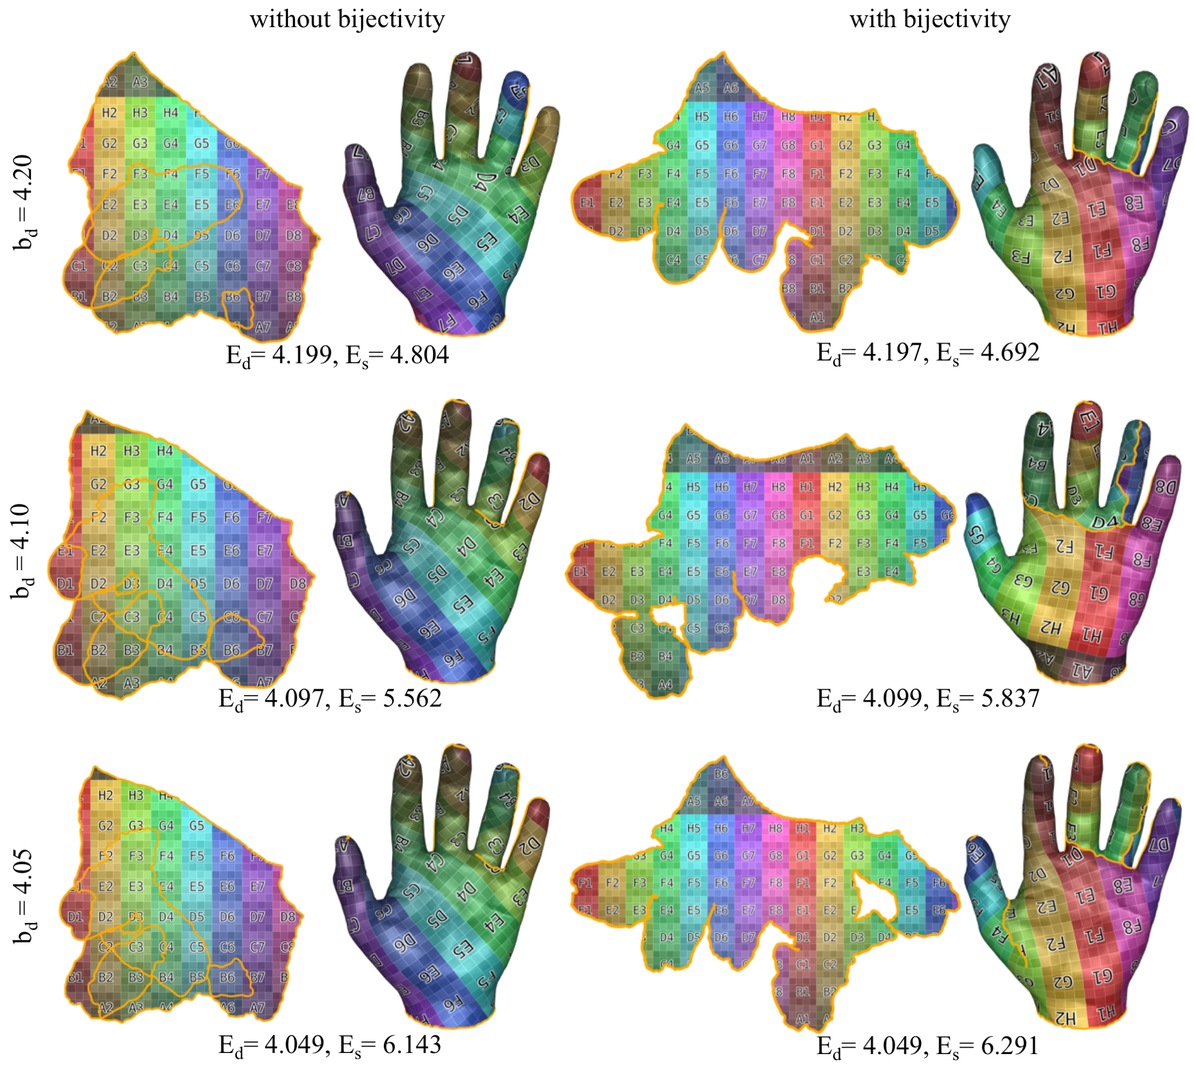
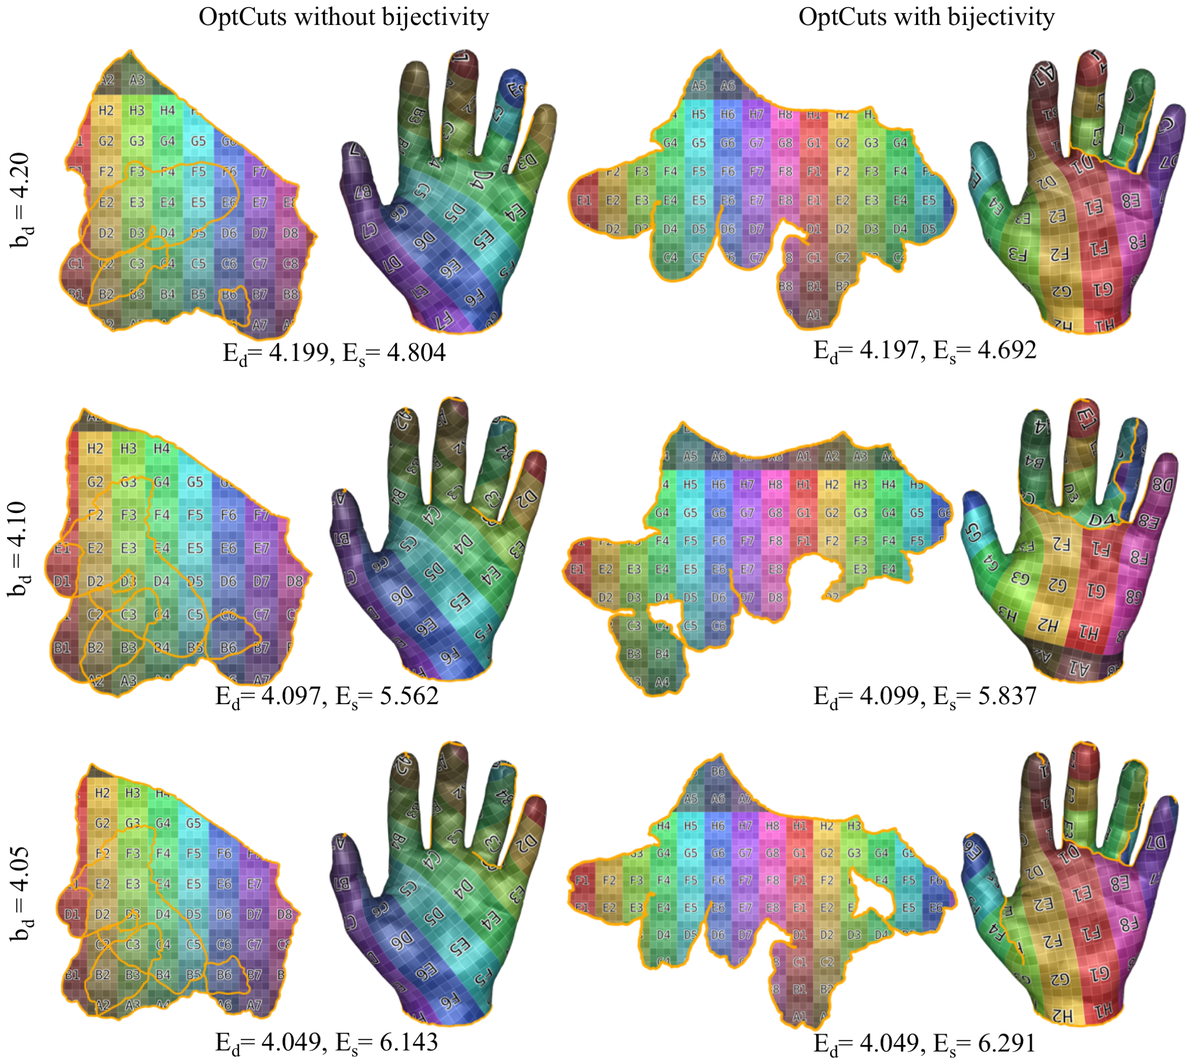
Added stats table in OptCuts evaluation, updated energy subscript, changed 'ours' to 'OptCuts'

diff --git a/paper/results.tex b/paper/results.tex
@@ -6,7 +6,7 @@
 \subsection{Implementation}
 \label{sec:imp}
 
-\danny{
+\minchen{
 any important details of the libraries you used: triangle, libIGL
 specs of the machine(s) used to time and evaluate methods:
 3.1 GHz quad-core Intel Core i7
@@ -32,23 +32,23 @@ Our smooth descent steps take in the locally altered UV map by the current topol
 \SetAlgoLined
 \KwData{$M$, $T^{k,i}$, $U_a^{k,i-1}$}
 \KwResult{$U^{k,i}$, $\delta^{k,i}$}
-$g^{k,i-1} \leftarrow \nabla E_{SD}(T^{k,i}, U_a^{k,i-1})$\;
+$g^{k,i-1} \leftarrow \nabla E_{d}(T^{k,i}, U_a^{k,i-1})$\;
 \If{$||g^{k,i-1}||^2 < 10^{-12}$}{
 	converge\;
 }
-compute $E_{SD}$ Hessian proxy $P^{k,i-1}$\;
+compute $E_{d}$ Hessian proxy $P^{k,i-1}$\;
 solve $P^{k,i-1} p^{k,i-1} = -g^{k,i-1}$ for search direction $p^{k,i-1}$\;
 compute initial step size $\alpha^{k,i-1}_0$\;
 back-tracking line search with Armijo rule to obtain $\alpha^{k,i-1}$\;
 $U^{k,i} \leftarrow U_a^{k,i-1} + \alpha^{k,i-1} p^{k,i-1}$\;
-$\delta^{k,i} \leftarrow E_{SD}(T^{k,i}, U^{k,i}) - E_{SD}(T^{k,i}, U_a^{k,i-1})$\;
-\If{$|\delta^{k,i}/E_{SD}(T^{k,i}, U_a^{k,i-1})| < 10^{-6}\alpha^{k,i-1}$}{
+$\delta^{k,i} \leftarrow E_{d}(T^{k,i}, U^{k,i}) - E_{d}(T^{k,i}, U_a^{k,i-1})$\;
+\If{$|\delta^{k,i}/E_{d}(T^{k,i}, U_a^{k,i-1})| < 10^{-6}\alpha^{k,i-1}$}{
 	stop\;
 }
 \caption{Smooth Descent Step $(k+1,i)$}
 \label{alg:descentStep}
 \end{algorithm}
-Since $E_{SD}$ is not convex, we apply the projected Newton method~\cite{Teran2005Robust} to project the Hessian of each energy element to its closest symmetric positive definite (SPD) matrix in parallel with Intel TBB~\cite{Reinders2007Intel}, and assemble them to form the SPD Hessian proxy $P$. We use the PARDISO~\cite{pardiso-6.0a, pardiso-6.0b} symmetric indefinite solver to solve the linear system $P p = -g$ for search direction $p$. \minchen{[TODO] change to use SPD solver by fixing a direction to ensure definiteness} As $E_{SD}$ is also a barrier-type energy, it is essential to ensure that the configuration always stays inside the feasible region. Thus, we follow Smith and Schaefer~\shortcite{Smith2015Bijective} to first compute an initial step size $\alpha_0$ that avoids element inversion and then conduct back-tracking line search with Armijo rule~\cite{Armijo1966Minimization} to ensure sufficient energy decrease.
+Since $E_{d}$ is not convex, we apply the projected Newton method\ \cite{Teran2005Robust} to project the Hessian of each energy element to its closest symmetric positive definite (SPD) matrix in parallel with Intel TBB~\cite{Reinders2007Intel}, and assemble them to form the SPD Hessian proxy $P$. We use the PARDISO~\cite{pardiso-6.0a, pardiso-6.0b} symmetric indefinite solver to solve the linear system $P p = -g$ for search direction $p$. \minchen{[TODO] change to use SPD solver by fixing a direction to ensure definiteness} As $E_{d}$ is also a barrier-type energy, it is essential to ensure that the configuration always stays inside the feasible region. Thus, we follow Smith and Schaefer~\shortcite{Smith2015Bijective} to first compute an initial step size $\alpha_0$ that avoids element inversion and then conduct back-tracking line search with Armijo rule~\cite{Armijo1966Minimization} to ensure sufficient energy decrease.
 
 Besides a relatively small tolerance on $g$ for convergence detection, we apply another relative energy decrease criteria to appropriately stop the process while necessary.
 This can stop our continuous search at the true local optimum infinitesimal better than setting a larger gradient tolerance since our energy is highly nonlinear.
@@ -63,19 +63,36 @@ When computing $\hat{f}_e$, besides also including the one-ring triangles on the
 
 \subsection{Method Evaluation}
 
-We evaluate our method with/without global bijectivity by running them on 70 input surfaces including both disk-topology and closed surfaces (some are with \minchen{[TODO] high genus}), setting $b_d$ to $4.2$, $4.1$, and $4.05$ (Figure~\ref{fig:our_impressive_results}). Our methods automatically generate high quality UV maps given any distortion bounds for all inputs without any user assistance.
+We evaluate our method with/without global bijectivity by running them on 70 input surfaces including both disk-topology and closed surfaces (some are with \minchen{[TODO] high genus}), setting $b_d$ to $4.2$, $4.1$, and $4.05$ (Table~\ref{tb:stats_OptCuts}). Our methods automatically generate high quality UV maps given any distortion bounds for all inputs without any user assistance (Figure~\ref{fig:our_impressive_results}).
+
+\begin{table}[!h]
+\centering
+\caption{Statistics of OptCuts running on 70 input surfaces with each of the 3 distortion bounds ($b_d = 4.2$, $4.1$, and $4.05$) both with and without bijectivity enabled.}
+\label{tb:stats_OptCuts}
+\begin{tabular}{|c|c|ccc|ccc|}
+\hline
+\multirow{2}{*}{$b_d$} & \multirow{2}{*}{bijectivity} & \multicolumn{3}{c|}{$E_{s}$} & \multicolumn{3}{c|}{time (s)} \\ \cline{3-8} 
+                       &                         & avg      & min     & max      & avg       & min    & max      \\ \hline
+\multirow{2}{*}{4.2}   & OFF                    & 3.819   & 0.080  & 14.545  & 87.0   & 0.3 & 417.8 \\
+                       & ON                & 4.087   & 0.289  & 17.063  & 190.3   & 3.8 & 983.3  \\ \hline
+\multirow{2}{*}{4.1}   & OFF                    & 4.709   & 0.752  & 17.980  & 137.5  & 0.9 & 886.9 \\
+                       & ON                & 5.324   & 0.860  & 21.595  & 271.1   & 6.9 & 1767.8  \\ \hline
+\multirow{2}{*}{4.05}  & OFF                    & 6.142   & 0.277  & 21.566  & 213.2  & 3.9 & 1398.1   \\
+                       & ON                & 7.195   & 0.932  & 29.596  & 412.9   & 7.2 & 2859.5 \\ \hline
+\end{tabular}
+\end{table}
 
 \begin{figure*}[!h]
 \centering
 \includegraphics[width=0.48\linewidth]{fig/our_impressive_results_left.png}
 \includegraphics[width=0.5\linewidth]{fig/our_impressive_results_right.png}
-\caption{UV maps generated by our methods with/without bijectivity with $b_d$ set to $4.2$, $4.1$, and $4.05$ from top to bottom.}
+\caption{UV maps generated by OptCuts with/without bijectivity with $b_d$ set to $4.2$, $4.1$, and $4.05$ from top to bottom.}
 \label{fig:our_impressive_results}
 \end{figure*}
 %could also be bunny_i, statue_5, wooden_fish
 
 \paragraph{Evaluation Metric}
-We are able to directly use the output normalized $E_{SL}$ as the evaluation metric since our method can generate UV maps with locally optimal seams under a certain distortion bound. This metric can be consistent among comparisons against all methods because given an input surface we are always able to compare the output $E_{SL}$ under the same level of distortion. Moreover, it also fits in well with practical scenarios where the control of distortions are more intuitive to the users and as-short-as-possible seams are expected.
+We are able to directly use the output normalized $E_{s}$ as the evaluation metric since our method can generate UV maps with locally optimal seams under a certain distortion bound. This metric can be consistent among comparisons against all methods because given an input surface we are always able to compare the output $E_{s}$ under the same level of distortion. Moreover, it also fits in well with practical scenarios where the control of distortions are more intuitive to the users and as-short-as-possible seams are expected.
 
 \paragraph{Initial Embedding}
 \minchen{[TODO?]}
@@ -87,45 +104,45 @@ We demonstrate the capabilities of our framework by comparing to the state-of-th
 AutoCuts obtains high quality UV maps by involving users into the optimization loop. However, when aiming for convenient, fully-automatic methods, the non-smoothness of their Separation energy not only makes it challenging for global parameter settings, but also often end up the optimization with suboptimal results. To show that we automatically generate high quality UV maps without suffering from these issues, we compare our method with a fully automatic version of AutoCuts obtained under the guidance of AutoCuts authors by constructing appropriate homotopy paths with a uniform set of mesh-adaptive parameters. 
 Specifically, we used $\lambda = 0.4$ and started with $\delta=100\overline{|e|}^2$ and half it in the beginning of each homotopy iteration until it reaches $10^{-4}\overline{|e|}^2$. Inside each homotopy iteration, we detect convergence by setting a tolerance $\sqrt{3n_t}\times10^{-3}\overline{|e|}$ on the $L^2$ norm of UV coordinate changes. Here $\overline{|e|}$ is the average edge length, $n_t$ is the number of triangles.
 
-Since AutoCuts does not intuitively support generating UV maps with a certain level of distortion, we first run AutoCuts on a batch of input surfaces, and then set their output distortions as $b_d$ in our method for each input. As demonstrated in Table~\ref{tb:comp_AutoCuts}, for both the two versions of our method, we require less time to generate UV maps with same level of distortion but significantly smaller seams. Figure~\ref{fig:ESLBar_compAutoCuts} shows a bar chart comparison on the output $E_{SL}$ of each input surface. Note that we easily enforced bijectivity (Figure~\ref{fig:comp_AutoCuts}), which is only supported in AutoCuts with user assistance on patch manipulation.
+Since AutoCuts does not intuitively support generating UV maps with a certain level of distortion, we first run AutoCuts on a batch of input surfaces, and then set their output distortions as $b_d$ in our method for each input. As demonstrated in Table~\ref{tb:comp_AutoCuts}, for both the two versions of our method, we require less time to generate UV maps with same level of distortion but significantly smaller seams. Figure~\ref{fig:ESLBar_compAutoCuts} shows a bar chart comparison on the output $E_{s}$ of each input surface. Note that we easily enforced bijectivity (Figure~\ref{fig:comp_AutoCuts}), which is only supported in AutoCuts with user assistance on patch manipulation.
 
 \begin{table}[!h]
 \centering
-\caption{Comparisons between AutoCuts and our methods with/without bijectivity (WB/NB) on 69 input surfaces with $3749$ vertices per input in average. Even with bijectivity, we achieve shorter seam length with less running time.}
+\caption{Comparisons between AutoCuts and OptCuts with/without bijectivity (WB/NB) on 69 input surfaces with $3749$ vertices per input in average. Even with bijectivity, we achieve shorter seam length with less running time.}
 \label{tb:comp_AutoCuts}
 \begin{tabular}{|c|ccc|ccc|}
 \hline
-\multirow{2}{*}{method} & \multicolumn{3}{c|}{$E_{SL}$} & \multicolumn{3}{c|}{time (s)} \\ \cline{2-7} 
+\multirow{2}{*}{method} & \multicolumn{3}{c|}{$E_{s}$} & \multicolumn{3}{c|}{time (s)} \\ \cline{2-7} 
                         & avg      & min     & max      & avg      & min    & max       \\ \hline
 AutoCuts                & 7.5789   & 1.2069  & 24.6816  & 499.9    & 4.0    & 2677.0    \\
-ours (WB)               & 5.8114   & 0.8979  & 19.7405  & 304.0    & 6.4    & 1267.7     \\
-ours (NB)               & 5.3065   & 0.8992  & 16.1329  & 148.7    & 3.1    & 650.9    \\ \hline
+OptCuts(B)               & 5.8114   & 0.8979  & 19.7405  & 304.0    & 6.4    & 1267.7     \\
+OptCuts               & 5.3065   & 0.8992  & 16.1329  & 148.7    & 3.1    & 650.9    \\ \hline
 \end{tabular}
 \end{table}
 
 \begin{figure}[!h]
 \centering
 \includegraphics[width=\linewidth]{fig/ESLBar_compAutoCuts.png}
-\caption{Normalized seam length $E_{SL}$ bar chart of each example generated by AutoCuts and our method with/without bijectivity. We achieve much shorter seams for almost all the inputs under the same levels of distortion.}
+\caption{Normalized seam length $E_{s}$ bar chart of each example generated by AutoCuts and OptCuts with/without bijectivity. We achieve much shorter seams for almost all the inputs under the same levels of distortion.}
 \label{fig:ESLBar_compAutoCuts}
 \end{figure}
 
 \begin{figure}[!h]
 \centering
 \includegraphics[width=\linewidth]{fig/comp_AutoCuts.png}
-\caption{Comparison between AutoCuts (top) and our method (bottom) on the armadillo (left) and camel (right) model, from which we can see that with a single set of parameters, AutoCuts may generate sub-optimal results for some inputs.}
+\caption{Comparison between AutoCuts (top) and OptCuts with bijectivity (bottom) on the armadillo (left) and camel (right) model, from which we can see that with a single set of parameters, AutoCuts may generate sub-optimal results for some inputs.}
 \label{fig:comp_AutoCuts}
 \end{figure}
 % could also be bone_noInput, bunny_i_f10000, bunny, camel_vova_f10000, cat_noUV, cow_param_closed, dilo, horse, male_2, octopus, wooden_fish, foot_i_f10000, three_man_statue, gargoyle, rgb_dragon, statue_i_1, vase, venus
 
 \paragraph{Scalability}
 From the time-resolution scatter plot in Figure~\ref{fig:time_res_compAutoCuts}a, we see that for meshes with higher resolution, our method scales better on running time than AutoCuts.
-We further run AutoCuts and our methods on 5 input surfaces obtained by progressively simplifying the original lucy model (48354 vertices) to test scalability. From the trend in Figure~\ref{fig:time_res_compAutoCuts}b, we further see that our method scales better. Besides, the average $E_{SL}$ obtained by our methods with/without bijectivity on the lucy models are $9.236$ and $8.816$ respectively, much smaller than $13.052$ by AutoCuts. Notice that for models with 24200 and 48354 vertices, AutoCuts already run out of memory, since its system size is $6$ times that of ours.
+We further run AutoCuts and our methods on 5 input surfaces obtained by progressively simplifying the original lucy model (48354 vertices) to test scalability. From the trend in Figure~\ref{fig:time_res_compAutoCuts}b, we further see that our method scales better. Besides, the average $E_{s}$ obtained by our methods with/without bijectivity on the lucy models are $9.236$ and $8.816$ respectively, much smaller than $13.052$ by AutoCuts. Notice that for models with 24200 and 48354 vertices, AutoCuts already run out of memory, since its system size is $6$ times that of ours.
 
 \begin{figure}[!h]
 \centering
 \includegraphics[width=\linewidth]{fig/time_res_compAutoCuts.png}
-\caption{Time-resolution scatter plot of a batch of examples (a) and 5 lucy models with different resolutions (b) generated by AutoCuts and our method with/without bijectivity. Note that in (b), there is no data points for AutoCuts on models with 24200 and 48354 vertices due to running out of memory. From the trend, we see that our methods scales better to meshes with higher resolution.}
+\caption{Time-resolution scatter plot of a batch of examples (a) and 5 lucy models with different resolutions (b) generated by AutoCuts and OptCuts with/without bijectivity. Note that in (b), there is no data points for AutoCuts on models with 24200 and 48354 vertices due to running out of memory. From the trend, we see that OptCuts scales better to meshes with higher resolution.}
 \label{fig:time_res_compAutoCuts}
 \end{figure}
 
@@ -133,18 +150,18 @@ We further run AutoCuts and our methods on 5 input surfaces obtained by progress
 \subsection{Variations}
 
 \paragraph{Regional Seam Placement}
-In texture painting applications, users would really like regions with the same semantic meanings stay connected or close to each other on the UV map. If we let users to select those regions on the input surface, we could easily avoid seams in those regions while still achieving bijectivity and similar seam length under the same distortion bound (Figure~\ref{fig:regional_seam_placement}). Without changing our framework, we just need to modify our formulation of $E_s$ by weighting each seam edge using the indicator function $w_{SL}$ provided by the user:
-\[ E_s = \hat{E}_{SL} = \sum_{i\in\mathcal{S}} w_{SL,i} E_{SL,i} \quad w_{SL,i} \in [1.0, +\infty] \]
+In texture painting applications, users would really like regions with the same semantic meanings stay connected or close to each other on the UV map. If we let users to select those regions on the input surface, we could easily avoid seams in those regions while still achieving bijectivity and similar seam length under the same distortion bound (Figure~\ref{fig:regional_seam_placement}). Without changing our framework, we just need to modify our formulation of $E_s$ by weighting each seam edge using the indicator function $w_{s}$ provided by the user:
+\[ E_s = \hat{E}_{s} = \sum_{i\in\mathcal{S}} w_{s,i} E_{s,i} \quad w_{s,i} \in [1.0, +\infty] \]
 
 \begin{figure}[!h]
 \centering
 \includegraphics[width=\linewidth]{fig/regional_user.png}
-\caption{Two examples of user controlled regional seam placement. Up to bottom: UV maps generated by the standard version of our method with bijectivity and $b_d = 4.1$, user preference on regional seam placement (blue means seams are less wanted), UV maps generated by the variation of our method supporting the given user preference (with bijectivity and $b_d = 4.1$). For the left dilo model, we achieve shorter seam length with the regional constraints. This can also happen when involving our bijectivity constraints, since our method is searching for local optimum.}
+\caption{Two examples of user controlled regional seam placement. Up to bottom: UV maps generated by the standard OptCuts with bijectivity and $b_d = 4.1$, user preference on regional seam placement (blue means seams are less wanted), UV maps generated by the variation of our method supporting the given user preference (with bijectivity and $b_d = 4.1$). For the left dilo model, we achieve shorter seam length with the regional constraints. This can also happen when involving our bijectivity constraints, since OptCuts is searching for local optimum.}
 \label{fig:regional_seam_placement}
 \end{figure}
 
 % \paragraph{Conformal Parameterization}
-% Using a conformal energy~\cite{Hormann2000MIPS,Sheffer2005ABFPP} for $E_d$ will achieve joint seam placement and conformal parameterization. Figure~\ref{fig:conformal_vs_isometry} shows some results with $E_d = E_{ABForMIPS}$~\cite{} compared to results with $E_d = E_{SD}$, where different seams are generated while our framework stays the same.
+% Using a conformal energy~\cite{Hormann2000MIPS,Sheffer2005ABFPP} for $E_d$ will achieve joint seam placement and conformal parameterization. Figure~\ref{fig:conformal_vs_isometry} shows some results with $E_d = E_{ABForMIPS}$~\cite{} compared to results with $E_d = E_{d}$, where different seams are generated while our framework stays the same.
 
 \paragraph{Different Cutting Strategy}
 The cutting strategy in the topology descent steps essentially build up the structure of the UV topology graph $\mathcal{G}_T$. By considering local topological operations, we built a dense graph connecting almost all the possible UV topologies and then reduce the search complexity by filtering. Alternatively, one can consider building $\mathcal{G}_T$ using only a sparse set of UV topologies and more aggressive topological operations, like the extremity-boundary (EB) cut applied in Geometry Images~\cite{Gu2002Geometry}.
@@ -153,25 +170,25 @@ We could alternatively apply EB strategy in our framework without bijectivity co
 
 \begin{table}[!h]
 \centering
-\caption{Comparison between the standard version of our method and using EB cutting strategy in our framework, both without bijectivity constraints. We run the two methods on 70 input surfaces with $3721$ vertices per input in average. With EB cutting strategy, we achieve similar seam length but much faster.} 
+\caption{Comparison between the standard OptCuts and using EB cutting strategy in our framework, both without bijectivity constraints. We run the two methods on 70 input surfaces with $3721$ vertices per input in average. With EB cutting strategy, we achieve similar seam length but much faster.} 
 \label{tb:comp_GI}
 \begin{tabular}{|c|c|ccc|ccc|}
 \hline
-\multirow{2}{*}{$b_d$} & \multirow{2}{*}{method} & \multicolumn{3}{c|}{$E_{se}$} & \multicolumn{3}{c|}{time (s)} \\ \cline{3-8} 
+\multirow{2}{*}{$b_d$} & \multirow{2}{*}{strategy} & \multicolumn{3}{c|}{$E_{se}$} & \multicolumn{3}{c|}{time (s)} \\ \cline{3-8} 
                        &                         & avg      & min     & max      & avg       & min    & max      \\ \hline
-\multirow{2}{*}{4.2}   & ours                    & 3.819   & 0.080  & 14.545  & 87.0   & 0.3 & 417.8 \\
-                       & ours(EB)                & 3.868   & 0.159  & 14.929  & 13.0   & 0.1 & 72.1  \\ \hline
-\multirow{2}{*}{4.1}   & ours                    & 4.709   & 0.752  & 17.980  & 137.5  & 0.9 & 886.9 \\
-                       & ours(EB)                & 4.795   & 1.207  & 16.895  & 17.0   & 0.1 & 87.2  \\ \hline
-\multirow{2}{*}{4.05}  & ours                    & 6.142   & 0.277  & 21.566  & 213.2  & 3.9 & 1398.1   \\
-                       & ours(EB)                & 6.335   & 0.328  & 23.051  & 24.1   & 0.1 & 115.4 \\ \hline
+\multirow{2}{*}{4.2}   & OptCuts                    & 3.819   & 0.080  & 14.545  & 87.0   & 0.3 & 417.8 \\
+                       & EB                & 3.868   & 0.159  & 14.929  & 13.0   & 0.1 & 72.1  \\ \hline
+\multirow{2}{*}{4.1}   & OptCuts                    & 4.709   & 0.752  & 17.980  & 137.5  & 0.9 & 886.9 \\
+                       & EB                & 4.795   & 1.207  & 16.895  & 17.0   & 0.1 & 87.2  \\ \hline
+\multirow{2}{*}{4.05}  & OptCuts                    & 6.142   & 0.277  & 21.566  & 213.2  & 3.9 & 1398.1   \\
+                       & EB                & 6.335   & 0.328  & 23.051  & 24.1   & 0.1 & 115.4 \\ \hline
 \end{tabular}
 \end{table}
 
 \begin{figure}[!h]
 \centering
 \includegraphics[width=0.8\linewidth]{fig/comp_GI.png}
-\caption{Comparison between the standard version of our method (left) and using EB cutting strategy in our framework (right), both without bijectivity constraints. EB cutting stategy is very efficient in early stages (a, b), but it does not work well when the UV map gets closer to isometric where extremities are not standing out (c).}
+\caption{Comparison between the standard OptCuts (left) and using EB cutting strategy in our framework (right), both without bijectivity constraints. EB cutting stategy is very efficient in early stages (a, b), but it does not work well when the UV map gets closer to isometric where extremities are not standing out (c).}
 \label{fig:comp_GI}
 \end{figure}
 % also could be face_f10000, male_body_i_f10000, statue_4_i_f10000, statue_5_i_f10000, bimba_i_f10000
@@ -184,18 +201,18 @@ If we take the output seams by our method with EB strategy to construct the init
 \begin{figure}[!h]
 \centering
 \includegraphics[width=\linewidth]{fig/comp_GI_outputAsInit.png}
-\caption{Using output seams by our method with extremity-boundary cutting strategy at $b_d = 4.1$ (a) as our initial UV map, we improve seam quality, reaching a locally optimal seam configuration under the given distortion bound even with bijectivity constraints (b). This seam length is also shorter than results obtained by our standard method without bijectivity (c).}
+\caption{Using output seams by our framework with extremity-boundary cutting strategy at $b_d = 4.1$ (a) as our initial UV map, we improve seam quality, reaching a locally optimal seam configuration under the given distortion bound even with bijectivity constraints (b). This seam length is also shorter than results obtained by standard OptCuts without bijectivity (c).}
 \label{fig:comp_GI_outputAsInit}
 \end{figure}
 % also could be bimba, bunny
 
-Seamster~\cite{Sheffer2002Seamster} is another classic seam cutting method worth considering for warm start. With Seamster's best output seams on the cow and triceraptop model, we obtain UV maps by minimizing $E_{SD}$ with bijectivity constraints (Figure~\ref{fig:comp_Seamster}a), and use them for warm start, setting their distortions as the upper bounds. As demonstrated in Figure~\ref{fig:comp_Seamster}b, we achieve shorter seam length while maintaining the distortion bound and bijectivity. This seam length is also shorter than running our standard method without bijectivity from standard initialization (Figure~\ref{fig:comp_Seamster}c).
+Seamster~\cite{Sheffer2002Seamster} is another classic seam cutting method worth considering for warm start. With Seamster's best output seams on the cow and triceraptop model, we obtain UV maps by minimizing $E_{d}$ with bijectivity constraints (Figure~\ref{fig:comp_Seamster}a), and use them for warm start, setting their distortions as the upper bounds. As demonstrated in Figure~\ref{fig:comp_Seamster}b, we achieve shorter seam length while maintaining the distortion bound and bijectivity. This seam length is also shorter than running our standard method without bijectivity from standard initialization (Figure~\ref{fig:comp_Seamster}c).
 
 \begin{figure}[!h]
 \centering
 \includegraphics[width=\linewidth]{fig/comp_Seamster.png}
-\caption{\minchen{[trouble stitching cow mesh together while maintaining the UV coordinates, will fix soon]} Starting from UV maps obtained by using Seamster's best output seams (a), we improve seam quality, reaching a locally optimal seam configuration while maintaining the distortion and bijectivity (b). This seam length is also shorter than running our standard method without bijectivity from standard initialization (c).}
+\caption{\minchen{[trouble stitching cow mesh together while maintaining the UV coordinates, will fix soon]} Starting from UV maps obtained by using Seamster's best output seams (a), we improve seam quality, reaching a locally optimal seam configuration while maintaining the distortion and bijectivity (b). This seam length is also shorter than running standard OptCuts without bijectivity from standard initialization (c).}
 \label{fig:comp_Seamster}
 \end{figure}
 
-For Seamster, user need to set the size of local regions for measuring extremity, which is a mesh and shape dependent parameter that requires fine tuning. Even our method with standard initialization achieves similar seam length without any user assistance.
+For Seamster, user need to set the size of local regions for measuring extremity, which is a mesh and shape dependent parameter that requires fine tuning. Even OptCuts with standard initialization achieves similar seam length without any user assistance.
